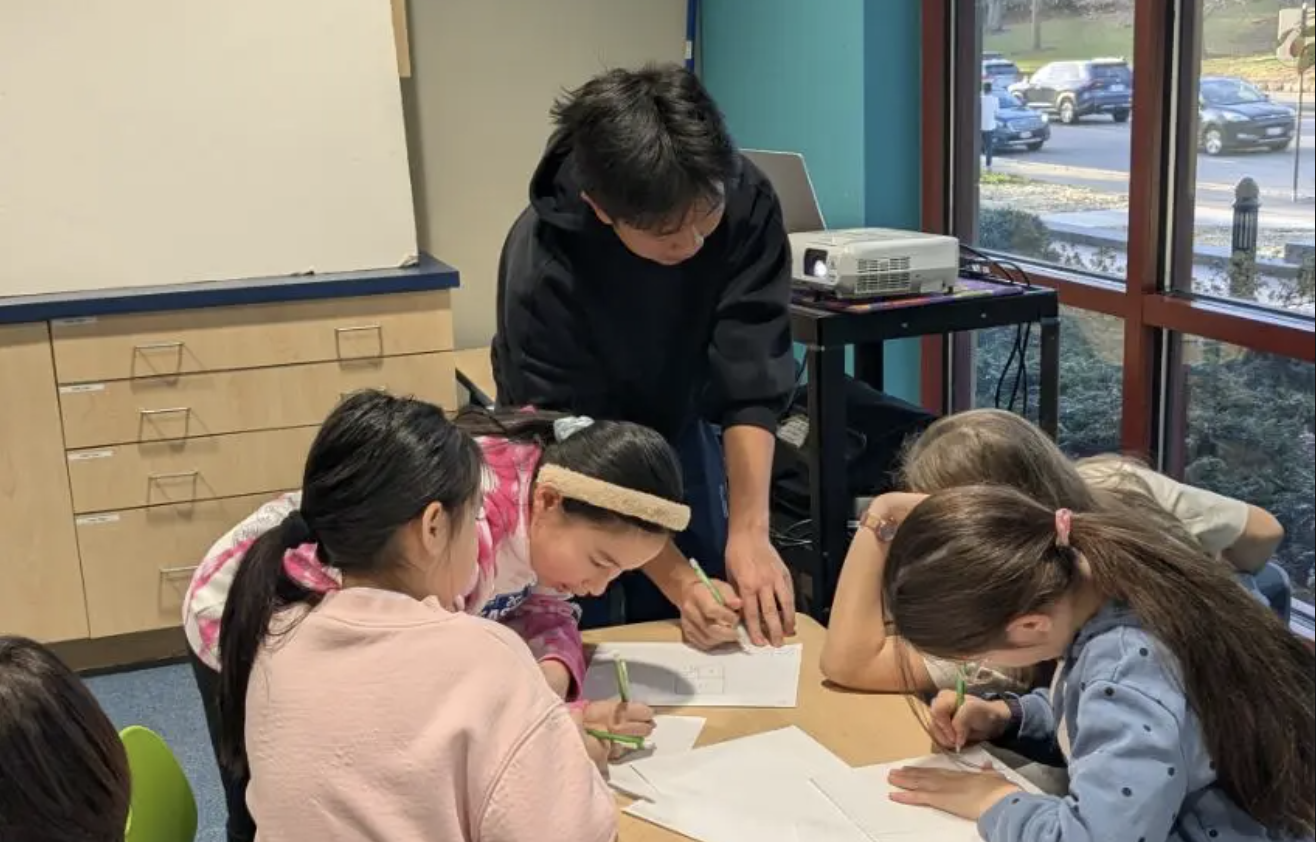
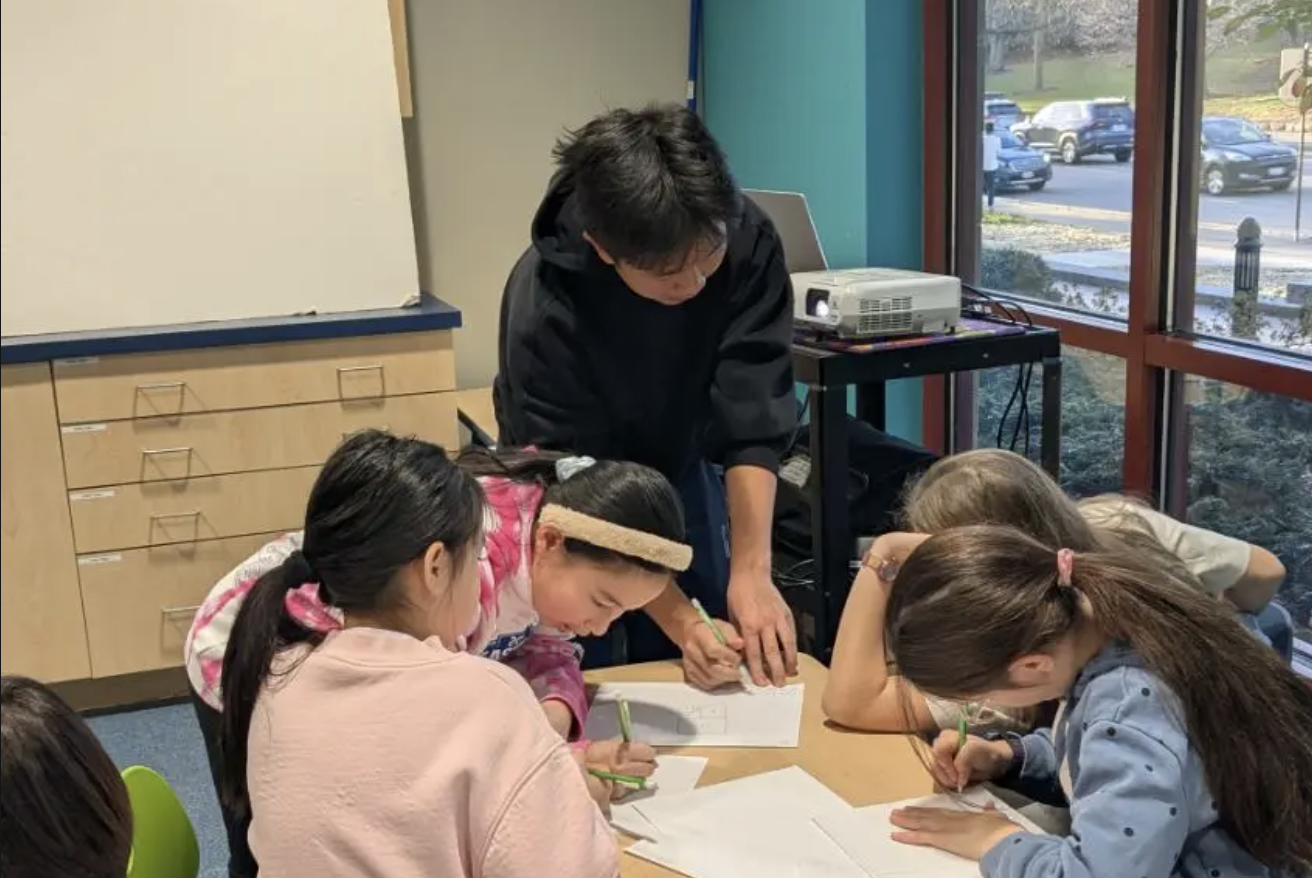
Before sending to sponsors

diff --git a/docs/index.html b/docs/index.html
@@ -196,7 +196,7 @@
           <h2>Sponsors</h2>
           <p>Sponsors of Vertex Math Project help grant prizes for students, provide financial support, and deliver further educational opportunities. We greatly appreciate their assistance which ensures the accessibility of the high quality education in which we provide. Their meaningful contributions make a great impact on the STEM community</p>
         </div>
-
+        <!--
         <div class="owl-carousel clients-carousel">
           <img src="img/clients/client-1.png" alt="">
           <img src="img/clients/client-2.png" alt="">
@@ -207,7 +207,7 @@
           <img src="img/clients/client-7.png" alt="">
           <img src="img/clients/client-8.png" alt="">
         </div>
-
+        -->
       </div>
     </section><!-- #clients -->
 
